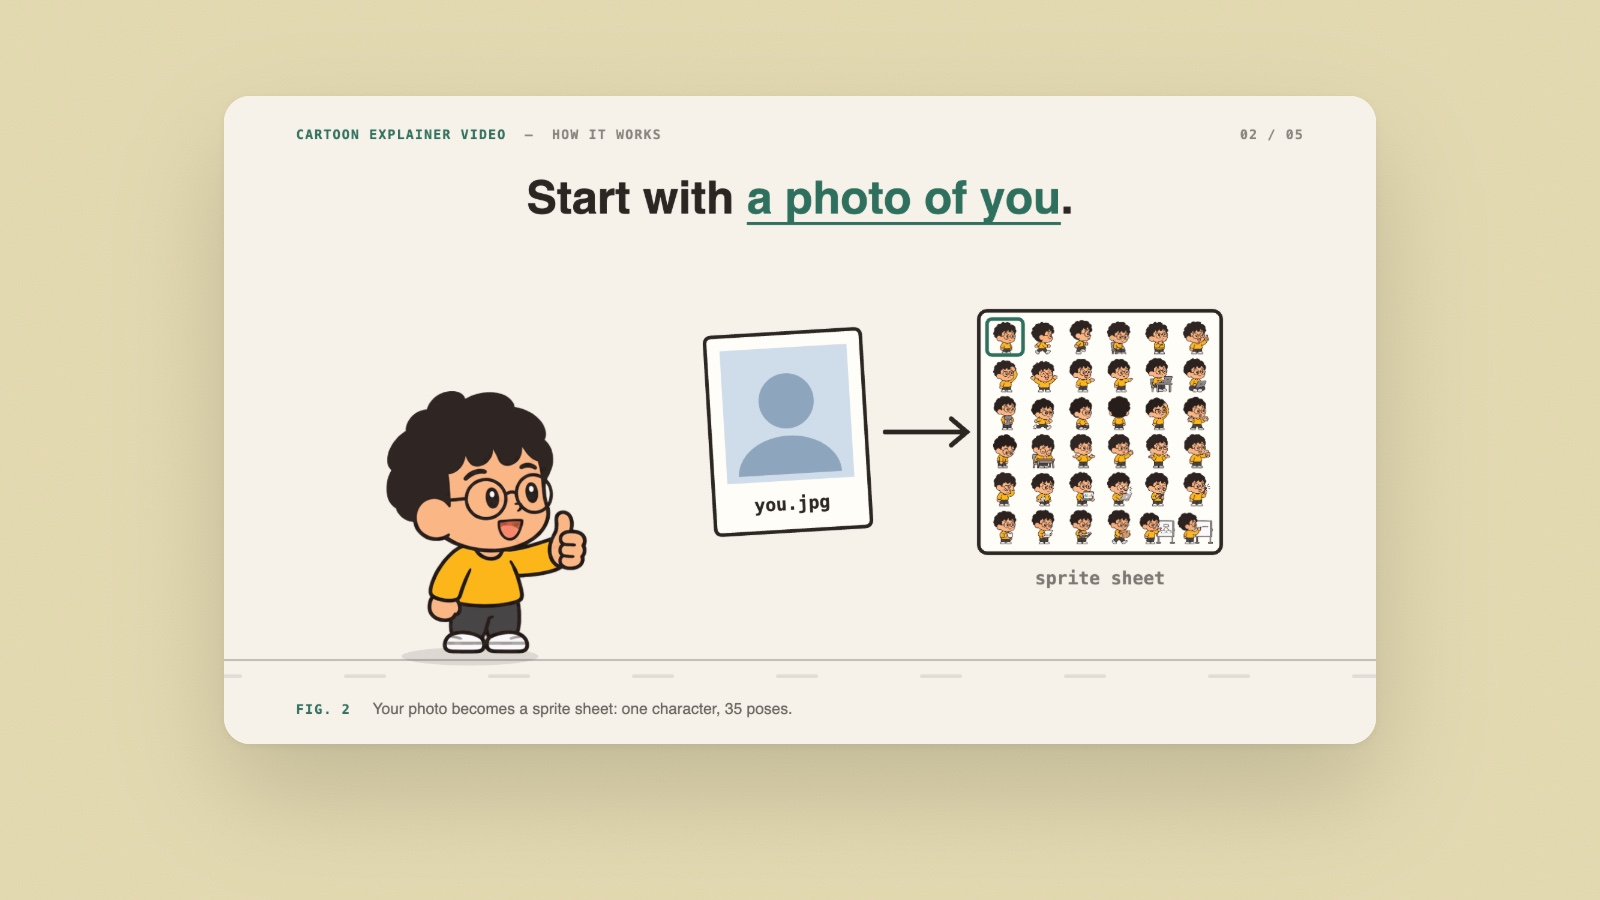
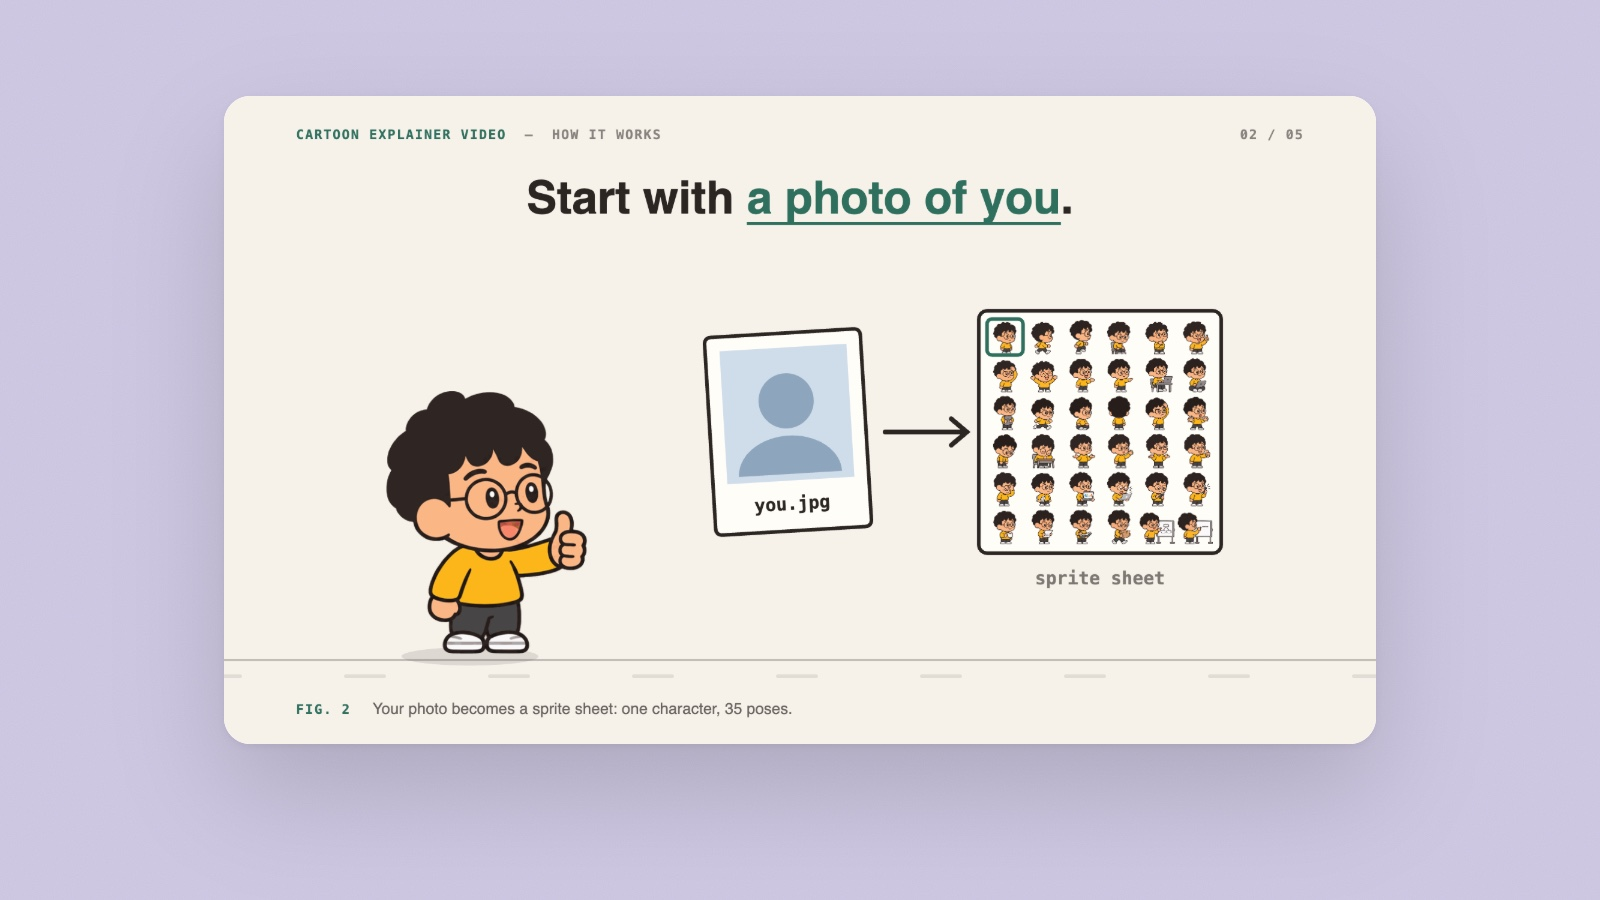
Move Software Architect to fourth and give Cartoon Explainer Video a violet cover
Software Architect and Workout Tracker swap places. Cartoon Explainer
Video's cover goes from sand, which repeated LinkedIn Ghostwriter's, to
violet, which sets off the character's yellow sweater.

diff --git a/covers/cartoon-explainer-video.html b/covers/cartoon-explainer-video.html
@@ -9,7 +9,7 @@
   .thing img { display: block; width: 100%; }
 </style>
 </head>
-<body class="sand">
+<body class="violet">
   <div class="grain"></div>
   <div class="thing"><img src="cartoon-explainer-video.png" alt=""></div>
 </body>

diff --git a/covers/README.md b/covers/README.md
@@ -23,4 +23,4 @@ sips -s format jpeg -s formatOptions 90 cover.png --out wikis/<id>/screenshots/c
 | poc-deck-builder | blue, results slide with each success criterion against its target | — |
 | software-architect | blue, screenshot of the architecture dashboard: the diagram, versions, and decisions | soft orchid `#e6d1e6` |
 | workout-tracker | violet, screenshot of the tracker page with the first week done | teal `#b4e0db` |
-| cartoon-explainer-video | sand, a frame of the guide video: the character, a photo, and the sprite sheet it becomes | — |
+| cartoon-explainer-video | violet, a frame of the guide video: the character, a photo, and the sprite sheet it becomes | — |
